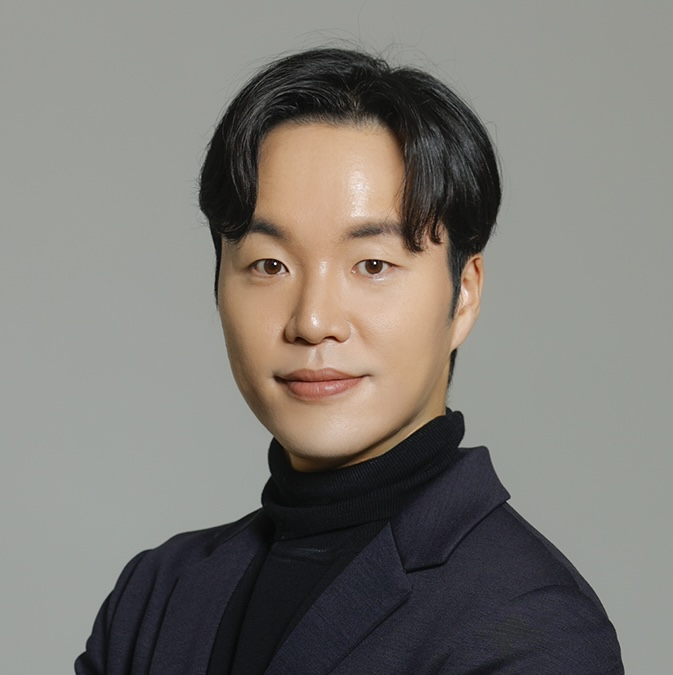
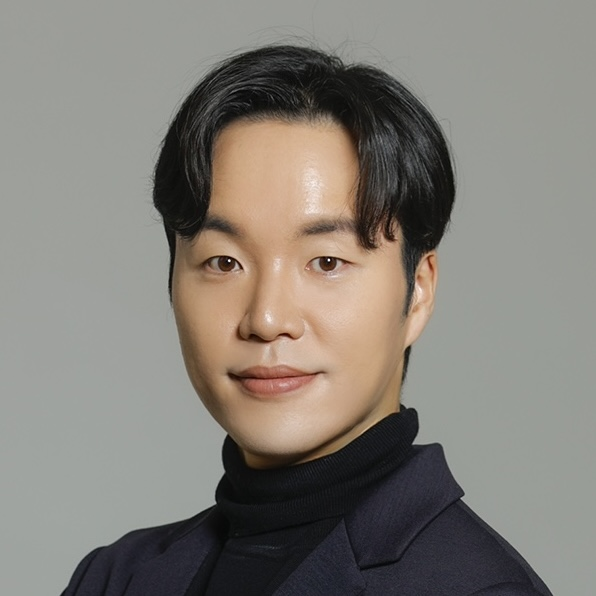
color settings

diff --git a/content/publications/preprint/index.md b/content/publications/preprint/index.md
@@ -2,25 +2,18 @@
 title: Refinancing Inequality and Montery Transmission Channel
 authors:
   - me
-date: 2025-12-07T00:00:00Z
-publishDate: 2017-01-01T00:00:00Z
+#date: 2025-12-07T00:00:00Z
+#publishDate: 2017-01-01T00:00:00Z
 publication_types:
   - article
 publication: ""
 publication_short: ""
-abstract: Lorem ipsum dolor sit amet, consectetur adipiscing elit. Duis posuere
-  tellus ac convallis placerat. Proin tincidunt magna sed ex sollicitudin
-  condimentum. Sed ac faucibus dolor, scelerisque sollicitudin nisi. Cras purus
-  urna, suscipit quis sapien eu, pulvinar tempor diam. Quisque risus orci,
-  mollis id ante sit amet, gravida egestas nisl. Sed ac tempus magna. Proin in
-  dui enim. Donec condimentum, sem id dapibus fringilla, tellus enim condimentum
-  arcu, nec volutpat est felis vel metus. Vestibulum sit amet erat at nulla
-  eleifend gravida.
+abstract: This paper documents substantial mortgage refinancing heterogeneity across income groups and quantifies its implications for the transmission of monetary policy. Using a loan-level panel data, I show that refinancing inequality appears in both the _intensity_ and _timing_ of refinancing -- the bottom income quintile refinances at two-thirds the rate of the top quintile and faces markedly longer delays, even when refinancing is financially beneficial. These gaps persist even after controlling for income- and time-varying measures of lender credit tightness. The associated unrealized savings are large, exceeding 8.4% of monthly income for the bottom quintile. I develop a structural mortgage refinancing model that decomposes refinancing frictions into two distinct channels—inattention and hassle cost—and allows both frictions to vary by income group. The model matches the observed refinancing inequality, unlike homogeneous-friction benchmarks. Counterfactual experiments show that reducing inattention frictions for low-income households would amplify the effects of a policy rate cut by 7.1% in consumption over five years. Refinancing inequality dampens monetary transmission, and mitigating inattention strengthens the real effects of rate cuts.
 summary: Lorem ipsum dolor sit amet, consectetur adipiscing elit. Duis posuere
   tellus ac convallis placerat. Proin tincidunt magna sed ex sollicitudin
   condimentum.
-tags:
-  - Large Language Models
+#tags:
+#  - Large Language Models
 featured: true
 hugoblox:
   ids:
@@ -32,19 +25,20 @@ links:
   - type: slides
     url: https://www.slideshare.net/
 image:
-  caption: "Image credit: [**Unsplash**](https://unsplash.com/photos/s9CC2SKySJM)"
+  #caption: "Mortgage hazard rate by rate incentive"
   focal_point: ""
-  preview_only: false
+  preview_only: true
 projects:
   - internal-project
 slides: ""
 draft: false
 
 ---
-
+<!-- 
 This work is driven by the results in my [previous paper](/publications/conference-paper/) on LLMs.
 
 > [!NOTE]
 > Create your slides in Markdown - click the *Slides* button to check out the example.
 
 Add the publication's **full text** or **supplementary notes** here. You can use rich formatting such as including [code, math, and images](https://docs.hugoblox.com/content/writing-markdown-latex/).
+-->

diff --git a/content/_index.md b/content/_index.md
@@ -1,6 +1,6 @@
 ---
 # Leave the homepage title empty to use the site title
-title: ''
+title: 'Jinho Kim'
 summary: ''
 date: 2022-10-24
 type: landing
@@ -16,9 +16,9 @@ sections:
       username: me
       text: ''
       # Show a call-to-action button under your biography? (optional)
-      button:
-        text: Download CV
-        url: uploads/CV.pdf
+      #button:
+      #  text: Download CV
+      #  url: uploads/CV.pdf
       headings:
         about: ''
         education: ''
@@ -37,22 +37,22 @@ sections:
       avatar:
         size: medium # Options: small (150px), medium (200px, default), large (320px), xl (400px), xxl (500px)
         shape: circle # Options: circle (default), square, rounded
-  - block: markdown
-    content:
-      title: '📚 My Research'
-      subtitle: ''
-      text: |-
-        Use this area to speak to your mission. I'm a research scientist in the Moonshot team at DeepMind. I blog about machine learning, deep learning, and moonshots.
+  #- block: markdown
+  #  content:
+  #    title: '📚 My Research'
+  #    subtitle: ''
+  #    text: |-
+  #      Use this area to speak to your mission. I'm a research scientist in the Moonshot team at DeepMind. I blog about machine learning, deep learning, and moonshots.
 
-        I apply a range of qualitative and quantitative methods to comprehensively investigate the role of science and technology in the economy.
+  #      I apply a range of qualitative and quantitative methods to comprehensively investigate the role of science and technology in the economy.
 
-        Please reach out to collaborate 😃
-    design:
-      columns: '1'
+  #      Please reach out to collaborate 😃
+  #  design:
+  #    columns: '1'
   - block: collection
     id: papers
     content:
-      title: Featured Publications
+      title: Working Papers
       filters:
         folders:
           - publications
@@ -62,7 +62,7 @@ sections:
       columns: 2
   - block: collection
     content:
-      title: Recent Publications
+      title: Working Papers
       text: ''
       filters:
         folders:

diff --git a/content/blog/get-started/index.md b/content/blog/get-started/index.md
@@ -54,12 +54,6 @@ Welcome 👋
 > [!TIP]+ Quick Start Guide
 > New to Hugo Blox? Follow these steps to get your site up and running in minutes!
 
-- 👉 [**Create a new site**](https://hugoblox.com/templates/)
-- 📚 [**Personalize your site**](https://docs.hugoblox.com/)
-- 💬 [Chat with the **Hugo Blox community**](https://discord.gg/z8wNYzb) or [**Hugo community**](https://discourse.gohugo.io)
-- 🐦 Twitter: [@LoreLabs_](https://x.com/LoreLabs_) [@GeorgeCushen](https://x.com/GeorgeCushen) #MadeWithHugoBlox
-- 💡 [Request a **feature** or report a **bug** for _Hugo Blox_](https://github.com/HugoBlox/kit/issues)
-- ⬆ **Updating Hugo Blox?** View the [Update Guide](https://docs.hugoblox.com/reference/update/) and [Release Notes](https://github.com/HugoBlox/kit/releases)
 
 > [!IMPORTANT]
 > Remember to backup your site before making major updates!
